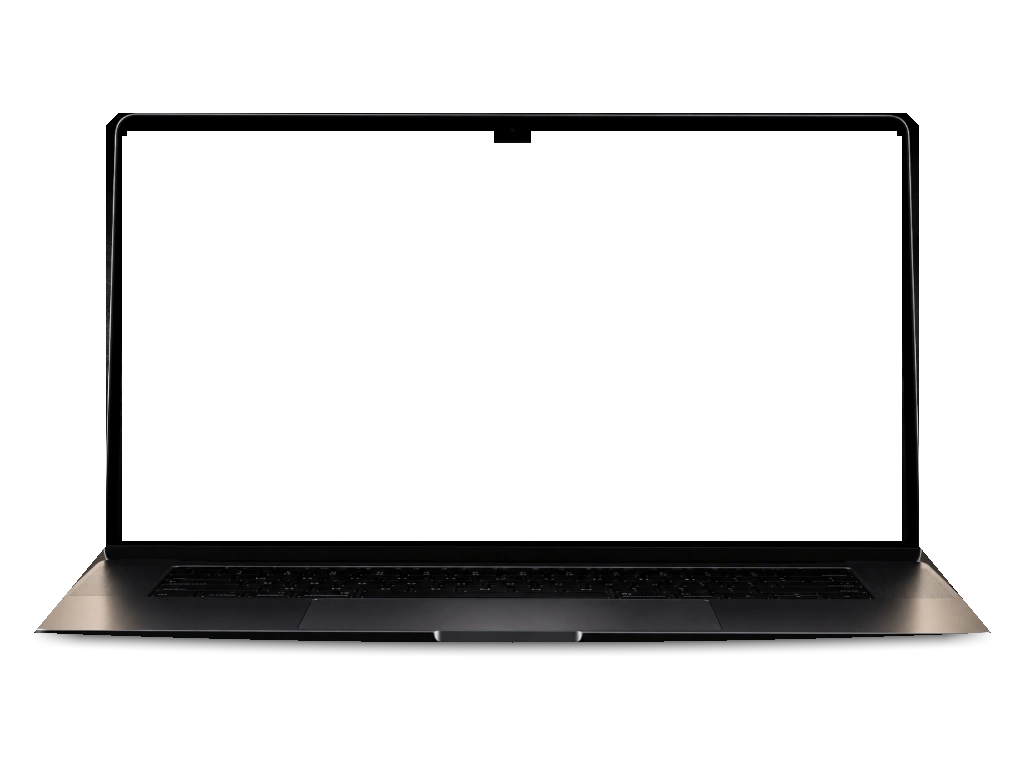
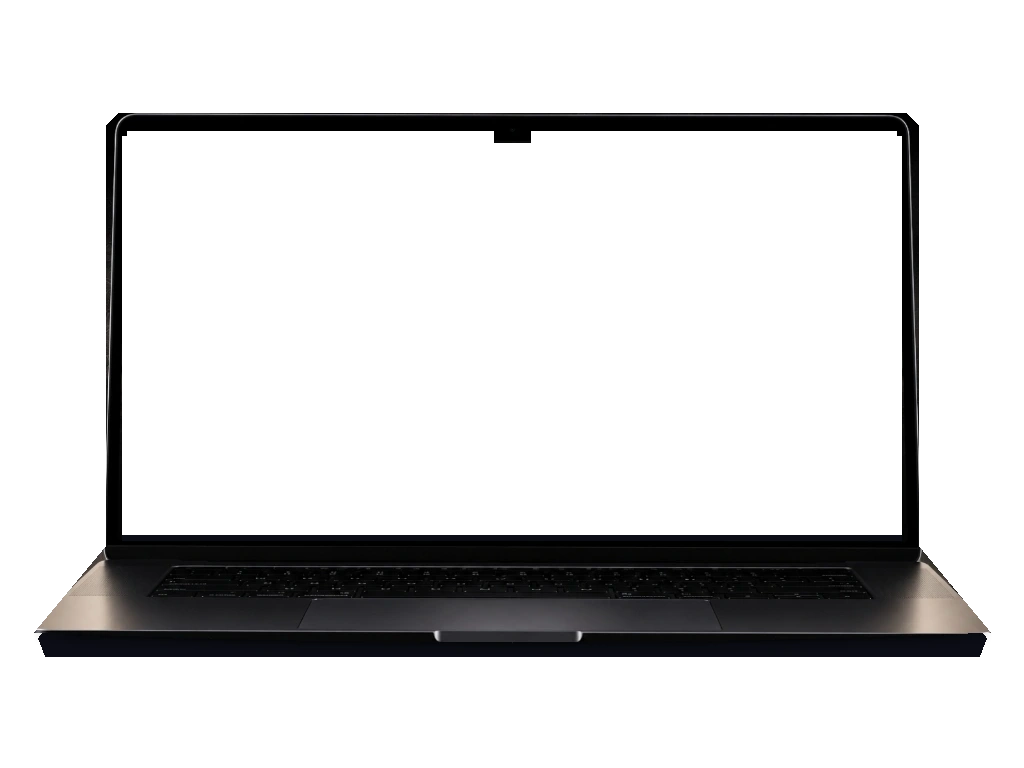
fix(hero): elevate 3D MacBook with solid chassis, rim lighting, contact shadow and fix scroll opacity

Changed region(s): [[0.0312, 0.8125, 0.9688, 0.875], [0.125, 0.6875, 0.875, 0.7188]]

diff --git a/src/components/landing/Hero.tsx b/src/components/landing/Hero.tsx
@@ -293,15 +293,16 @@ export function LandingHero() {
     target: heroRef,
     offset: ['start start', 'end start'],
   });
-  const contentOpacity = useTransform(scrollYProgress, [0, 0.6], [1, 0]);
-  const contentY = useTransform(scrollYProgress, [0, 0.6], [0, -30]);
+  // Do NOT fade out while in the hero viewport; only gently dim when exiting at the very bottom
+  const contentOpacity = useTransform(scrollYProgress, [0.85, 1], [1, 0.4]);
+  const contentY = useTransform(scrollYProgress, [0, 1], [0, -20]);
 
   return (
     <section
       ref={heroRef}
       onMouseMove={handleMouseMove}
       onMouseLeave={handleMouseLeave}
-      className="relative min-h-[92vh] lg:min-h-screen flex flex-col justify-center pt-24 sm:pt-28 pb-12 sm:pb-16 px-4 sm:px-8 lg:px-14 overflow-hidden bg-black text-white select-none"
+      className="relative min-h-[92vh] lg:min-h-screen flex flex-col justify-center pt-20 sm:pt-24 pb-8 sm:pb-12 px-4 sm:px-8 lg:px-14 overflow-hidden bg-black text-white select-none"
     >
       {/* =========================================================================
           MOTION VIDEO HERO BACKGROUND (Pinterest Reference Style: https://pin.it/299AB5ISY)
@@ -372,7 +373,7 @@ export function LandingHero() {
           initial={{ opacity: 0, y: 22 }}
           animate={{ opacity: 1, y: 0 }}
           transition={{ duration: 0.55, delay: 0.1 }}
-          className="text-3xl sm:text-5xl md:text-6xl lg:text-[3.5rem] xl:text-[4.2rem] font-black tracking-tight leading-tight select-none text-center max-w-[1400px] px-2"
+          className="text-2xl sm:text-4xl md:text-5xl lg:text-[3.25rem] xl:text-[3.8rem] font-black tracking-tight leading-tight select-none text-center max-w-[1400px] px-2"
         >
           <span className="inline lg:whitespace-nowrap bg-gradient-to-b from-white via-slate-100 to-slate-400 bg-clip-text text-transparent drop-shadow-[0_4px_24px_rgba(0,0,0,0.9)]">
             Where Reputations Are Proven{' '}
@@ -387,7 +388,7 @@ export function LandingHero() {
           initial={{ opacity: 0, y: 16 }}
           animate={{ opacity: 1, y: 0 }}
           transition={{ duration: 0.5, delay: 0.2 }}
-          className="mt-4 sm:mt-5 text-sm sm:text-base md:text-lg text-slate-300 leading-relaxed font-normal max-w-2xl mx-auto drop-shadow-[0_2px_10px_rgba(0,0,0,0.85)]"
+          className="mt-3 sm:mt-4 text-xs sm:text-sm md:text-base text-slate-300 leading-relaxed font-normal max-w-2xl mx-auto drop-shadow-[0_2px_10px_rgba(0,0,0,0.85)]"
         >
           No resume fluff. No fake GitHub stars. Real-time 1v1 code combat under fog-of-war proctoring. Step into the arena and defend your campus.
         </motion.p>
@@ -397,7 +398,7 @@ export function LandingHero() {
           initial={{ opacity: 0, y: 16 }}
           animate={{ opacity: 1, y: 0 }}
           transition={{ duration: 0.5, delay: 0.3 }}
-          className="mt-6 sm:mt-7 flex flex-wrap items-center justify-center gap-3.5 sm:gap-4"
+          className="mt-5 sm:mt-6 flex flex-wrap items-center justify-center gap-3.5 sm:gap-4"
         >
           {/* Primary Button */}
           <Link
@@ -423,7 +424,7 @@ export function LandingHero() {
           initial={{ opacity: 0, y: 14 }}
           animate={{ opacity: 1, y: 0 }}
           transition={{ duration: 0.5, delay: 0.4 }}
-          className="mt-5 flex flex-wrap items-center justify-center gap-4 text-xs font-mono text-slate-400"
+          className="mt-4 flex flex-wrap items-center justify-center gap-4 text-xs font-mono text-slate-400"
         >
           <div className="flex items-center gap-1.5">
             <ShieldCheck className="w-3.5 h-3.5 text-emerald-400" />
@@ -441,16 +442,29 @@ export function LandingHero() {
           </div>
         </motion.div>
 
-        {/* ================= CENTERED PHOTOREALISTIC AWWWARDS MACBOOK ================= */}
+        {/* ================= CENTERED PHOTOREALISTIC AWWWARDS MACBOOK (ELEVATED 3D STAGE) ================= */}
         <motion.div
           initial={{ opacity: 0, scale: 0.96, y: 24 }}
           animate={{ opacity: 1, scale: 1, y: 0 }}
           transition={{ duration: 0.7, delay: 0.25 }}
-          className="w-full max-w-[1020px] xl:max-w-[1140px] mt-8 sm:mt-11 transition-transform duration-300 ease-out mx-auto"
+          className="relative z-20 w-full max-w-[940px] xl:max-w-[1040px] mt-6 sm:mt-8 transition-transform duration-300 ease-out mx-auto"
           style={{
             perspective: '1400px',
           }}
         >
+          {/* ================= 3D STAGE ELEVATION & BACKLIGHTING ================= */}
+          {/* A. Dark Ambient Stage Shield: Blocks background video dots from washing out or blending with the laptop */}
+          <div className="absolute -inset-6 sm:-inset-10 bg-radial-gradient from-black/95 via-black/75 to-transparent rounded-[48px] blur-2xl pointer-events-none -z-10" />
+
+          {/* B. Dual Luminous Rim Backlight: Illuminates the MacBook lid from behind in cyan & amber */}
+          <div className="absolute -top-10 sm:-top-16 left-1/2 -translate-x-1/2 w-[78%] h-36 bg-gradient-to-b from-cyan-500/25 via-indigo-600/10 to-transparent rounded-full blur-3xl pointer-events-none -z-10" />
+          <div className="absolute -top-4 sm:-top-8 left-1/2 -translate-x-1/2 w-[55%] h-24 bg-gradient-to-b from-amber-400/20 via-orange-500/5 to-transparent rounded-full blur-2xl pointer-events-none -z-10" />
+
+          {/* C. Physical Ground Contact Shadow & Stage Elevation: Creates real physical separation from the background */}
+          <div className="absolute -bottom-8 sm:-bottom-12 left-1/2 -translate-x-1/2 w-[92%] h-14 bg-black/95 rounded-[100%] blur-2xl pointer-events-none -z-10" />
+          <div className="absolute -bottom-3 sm:-bottom-5 left-1/2 -translate-x-1/2 w-[75%] h-6 bg-black/90 rounded-[100%] blur-md pointer-events-none -z-10" />
+          <div className="absolute -bottom-1 left-1/2 -translate-x-1/2 w-[55%] h-3 bg-cyan-400/20 rounded-full blur-sm pointer-events-none -z-10" />
+
           {/* Interactive 3D Cursor Tilt Container */}
           <Link
             href="/arena"
@@ -462,6 +476,13 @@ export function LandingHero() {
             }}
             className="block relative w-full aspect-[1024/768] transition-all duration-300 group cursor-pointer"
           >
+            {/* SOLID CHASSIS & KEYBOARD BASE BACKING: 100% blocks video background dots through keyboard/body */}
+            <div
+              className="absolute left-[3.2%] top-[14.7%] w-[93.7%] h-[71%] bg-[#080a11] pointer-events-none z-10"
+              style={{
+                clipPath: 'polygon(7.5% 0%, 92.5% 0%, 92.5% 77%, 100% 90%, 98.5% 100%, 1.5% 100%, 0% 90%, 7.5% 77%)',
+              }}
+            />
             {/* 1. PHYSICAL MACBOOK DISPLAY: LIVE 3-MINUTE BATTLE TIMELOOP */}
             <div className="absolute left-[11.91%] top-[17.06%] w-[76.07%] h-[53.25%] overflow-hidden bg-[#06080e] flex flex-col select-none rounded-t-[4px] shadow-inner text-left">
                   
